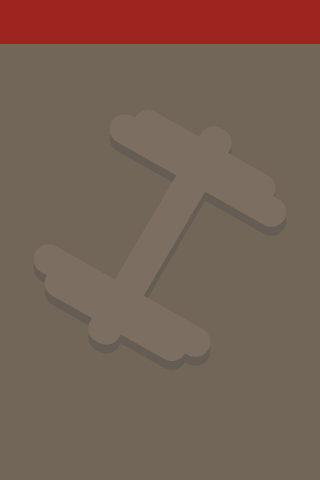
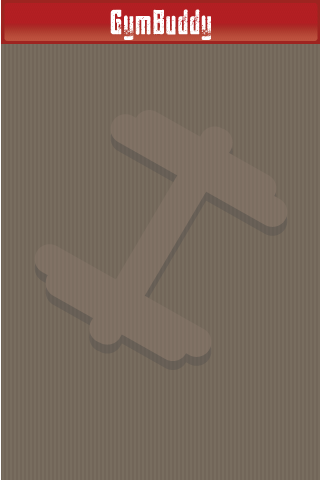
Added traffic light to workout complete. Ready for testing

Changed region(s): [[0.0, 0.0, 1.0, 0.0938]]

diff --git a/WorkoutSummaryViewController.m b/WorkoutSummaryViewController.m
@@ -9,6 +9,8 @@
 #import "WorkoutSummaryViewController.h"
 #import "GymBuddyMacros.h"
 #import "LogbookEntry.h"
+#import "Workout.h"
+#import "CoreDataHelper.h"
 
 @implementation WorkoutSummaryViewController
 @synthesize navigationBar;
@@ -20,15 +22,85 @@
 @synthesize numExercisesValue = _numExercisesValue;
 @synthesize totalResistanceValue = _totalResistanceValue;
 @synthesize totalDistanceValue = _totalDistanceValue;
+@synthesize strengthLight = _strengthLight;
+@synthesize cardioLight = _cardioLight;
 
--(void) setForm
+NSFetchedResultsController *frc;
+
+-(float) calculateWorkoutScore: (LogbookEntry *) entry
 {
-    self.completedValue.text = [NSString stringWithFormat:@"%1.0f%%", ([self.finalProgress floatValue] * 100)];
-    self.numExercisesValue.text = [NSString stringWithFormat:@"%d", (self.logbookEntries.count - self.skippedEntries.count)];
+    float strengthScore = 0;
     
+    if (entry.weight != nil)
+    {
+       strengthScore = [entry.weight floatValue] * [entry.reps floatValue] * [entry.sets floatValue];
+    }
+    
+    return strengthScore;
+}
+
+
+-(float) calculateCardioScore: (LogbookEntry *) entry
+{
+    float cardioScore = 0;
+    
+    if (entry.distance != nil && [entry.distance floatValue] > 0)
+    {
+        cardioScore = [entry.distance floatValue];
+    }
+    else if (entry.pace != nil)
+    {
+        // dist = pace/hr * min/60.0
+        cardioScore = [entry.pace floatValue] * [entry.duration floatValue] / 60.0;
+    }
+    
+    return cardioScore;
+}
+
+-(LogbookEntry *) fetchOldLogbookEntry: (Workout *)workout: (NSDate *)priorToDate: (NSString *)exercise
+{
+    LogbookEntry *oldEntry = nil;
+    
+    NSFetchRequest *request = [NSFetchRequest fetchRequestWithEntityName:LOGBOOK_TABLE];
+    request.sortDescriptors = [NSArray arrayWithObject:[NSSortDescriptor sortDescriptorWithKey:@"date" ascending:YES]];
+    request.predicate = [NSPredicate predicateWithFormat:@"(workout = %@) AND (exercise_name = %@) AND (date < %@) AND (completed = %@)", 
+                         workout, exercise, priorToDate, [NSNumber numberWithBool:YES]];
+
+    frc = [[NSFetchedResultsController alloc] initWithFetchRequest:request 
+                                              managedObjectContext:[CoreDataHelper getActiveManagedObjectContext]
+                                                sectionNameKeyPath:nil 
+                                                         cacheName:nil];
+    
+    [frc performFetch:nil];
+    NSArray *array = [frc fetchedObjects];
+    
+    if (array != nil && array.count > 0)
+    {
+        oldEntry = [array lastObject];
+    }
+    
+    return oldEntry;
+}
+
+-(UIImage *) getTrafficLight: (float) score
+{
+    if (score < 0)
+        return [UIImage imageNamed:GB_REDSTAT];
+    if (score > 0)
+        return [UIImage imageNamed:GB_GREENSTAT_PLUS];
+    
+    return [UIImage imageNamed:GB_GREENSTAT];
+}
+
+-(void) setLogbookScores
+{
     LogbookEntry *entry;
+    
     float distance = 0.0;
-    float resistance = 0.0;
+    float strength = 0.0;
+    
+    float distanceOld = 0.0;
+    float strengthOld = 0.0;
     
     // Total Resistance = Sum of (Weight * Sets * Reps) for each complete logbook
     // Total Distance = Sum of (Pace * Time || Distance) for each complete logbook
@@ -36,32 +108,51 @@
     {
         if (entry.completed == [NSNumber numberWithInt:1])
         {
-            if (entry.weight != nil)
-            {
-                resistance += [entry.weight floatValue] * [entry.reps floatValue] * [entry.sets floatValue];
-            }
-            if (entry.distance != nil && [entry.distance floatValue] > 0)
-            {
-                distance += [entry.distance floatValue];
-            }
-            else if (entry.pace != nil)
-            {
-                // dist = pace/hr * min/60.0
-                distance += [entry.pace floatValue] * [entry.duration floatValue] / 60.0;
-            }
+            LogbookEntry *oldLogbook = [self fetchOldLogbookEntry:entry.workout :entry.date :entry.exercise_name];
+            
+            strength += [self calculateWorkoutScore:entry];
+            strengthOld += [self calculateWorkoutScore:oldLogbook];
+            
+            distance += [self calculateCardioScore:entry];
+            distanceOld += [self calculateCardioScore:oldLogbook];            
         }
     }
     
-    self.totalDistanceValue.text = [NSString stringWithFormat:@"%1.1f", distance];
-    self.totalResistanceValue.text = [NSString stringWithFormat:@"%1.0f", resistance];
+    if (strengthOld != 0)
+    {
+        self.totalResistanceValue.text = [NSString stringWithFormat:@"%1.0f%%", (strength/strengthOld) * 100.0];
+        self.strengthLight.image = [self getTrafficLight:(strength - strengthOld)];
+    }
+    else if (strength > 0)
+    {
+        self.totalResistanceValue.text = [NSString stringWithFormat:@"%1.0f%%", (1) * 100.0];
+        self.strengthLight.image = [self getTrafficLight:(1)];
+    }
+    
+    if (distanceOld != 0)
+    {
+        self.totalDistanceValue.text = [NSString stringWithFormat:@"%1.0f%%", (distance/distanceOld) * 100.0];
+        self.cardioLight.image = [self getTrafficLight:(distance - distanceOld)];
+    }
+    else if (distance > 0)
+    {
+        self.totalDistanceValue.text = [NSString stringWithFormat:@"%1.0f%%", (1) * 100.0];
+        self.cardioLight.image = [self getTrafficLight:(1)];   
+    }
+}
+
+-(void) setForm
+{
+    self.completedValue.text = [NSString stringWithFormat:@"%1.0f%%", ([self.finalProgress floatValue] * 100)];
+    self.numExercisesValue.text = [NSString stringWithFormat:@"%d", (self.logbookEntries.count - self.skippedEntries.count)];
+    [self setLogbookScores];
 }
 
 -(void) viewWillAppear:(BOOL)animated
 {
     // Visual stuff
     [self.navigationBar setBackgroundImage:[UIImage imageNamed:TITLEBAR_IMAGE] forBarMetrics:UIBarMetricsDefault];
-    self.view.backgroundColor = [UIColor colorWithPatternImage:[UIImage imageNamed:BACKGROUND_IMAGE]];
-    
+    self.view.backgroundColor = [UIColor colorWithPatternImage:[UIImage imageNamed:BACKGROUND_IMAGE_LONG]];
     [self setForm];
 }
 
@@ -71,6 +162,8 @@
     [self setNumExercisesValue:nil];
     [self setTotalResistanceValue:nil];
     [self setTotalDistanceValue:nil];
+    [self setStrengthLight:nil];
+    [self setCardioLight:nil];
     [super viewDidUnload];
 }
 @end

diff --git a/WorkoutModeViewController.m b/WorkoutModeViewController.m
@@ -326,6 +326,8 @@
         {
             [[CoreDataHelper getActiveManagedObjectContext] deleteObject:lbe];
         }
+        
+        [self.logbookEntries removeObjectsAtIndexes:count];
     }
 }
 
@@ -338,7 +340,7 @@
     {
         UIAlertView *alert = [[UIAlertView alloc]
                               initWithTitle: @"Finish Workout?"
-                              message: @"Some exercies haven't been completed. Finish to exit and save to the log or Cancel to return to workout.\n\nSwipe to go to the next exercise."
+                              message: @"Some exercies haven't been completed. Finish to exit and save to the log or Cancel to return to workout.\n\n(swipe to go to the next exercise)"
                               delegate: self
                               cancelButtonTitle:@"Cancel"
                               otherButtonTitles:@"Finish", nil];

diff --git a/WorkoutSummaryViewController.h b/WorkoutSummaryViewController.h
@@ -7,6 +7,7 @@
 //
 
 #import <UIKit/UIKit.h>
+#import "LogbookEntry.h"
 
 @interface WorkoutSummaryViewController : UIViewController
 @property (weak, nonatomic) IBOutlet UINavigationBar *navigationBar;
@@ -19,5 +20,10 @@
 @property (weak, nonatomic) IBOutlet UILabel *numExercisesValue;
 @property (weak, nonatomic) IBOutlet UILabel *totalResistanceValue;
 @property (weak, nonatomic) IBOutlet UILabel *totalDistanceValue;
+@property (weak, nonatomic) IBOutlet UIImageView *strengthLight;
+@property (weak, nonatomic) IBOutlet UIImageView *cardioLight;
+
+-(float) calculateWorkoutScore: (LogbookEntry *) entry;
+-(float) calculateCardioScore: (LogbookEntry *) entry;
 
 @end

diff --git a/SettingsViewController.m b/SettingsViewController.m
@@ -25,7 +25,11 @@
         {
             cellDetail.text = [self.defaults stringForKey:cellLabel.text] ;
         }
-        else if ([cellLabel.text hasSuffix:@"Increment"])
+        else if ([cellLabel.text hasSuffix:@"Resistance Increment"])
+        {
+            cellDetail.text = @"2.5";
+        }
+        else if ([cellLabel.text hasSuffix:@"Cardio Increment"])
         {
             cellDetail.text = @"0.5";
         }

diff --git a/WorkoutViewController.m b/WorkoutViewController.m
@@ -67,6 +67,7 @@
             self.document = doc;
         }]; 
     }
+    
 }
 
 #pragma mark -
